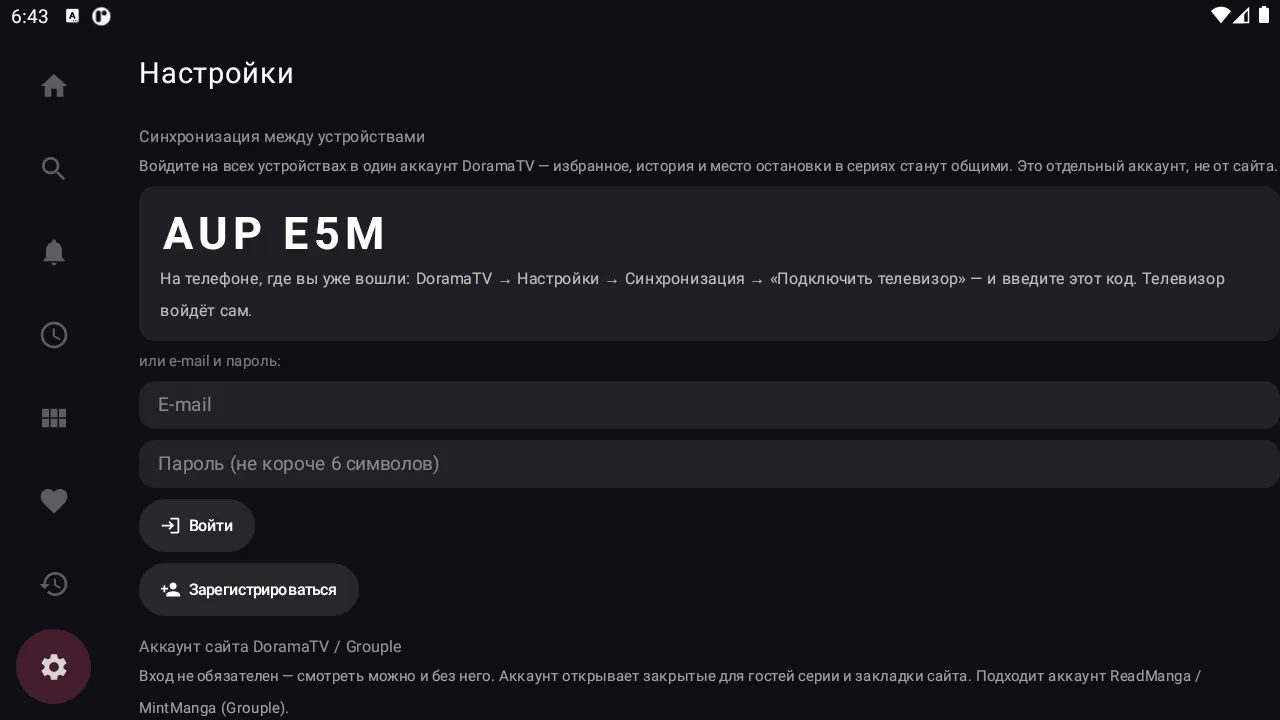
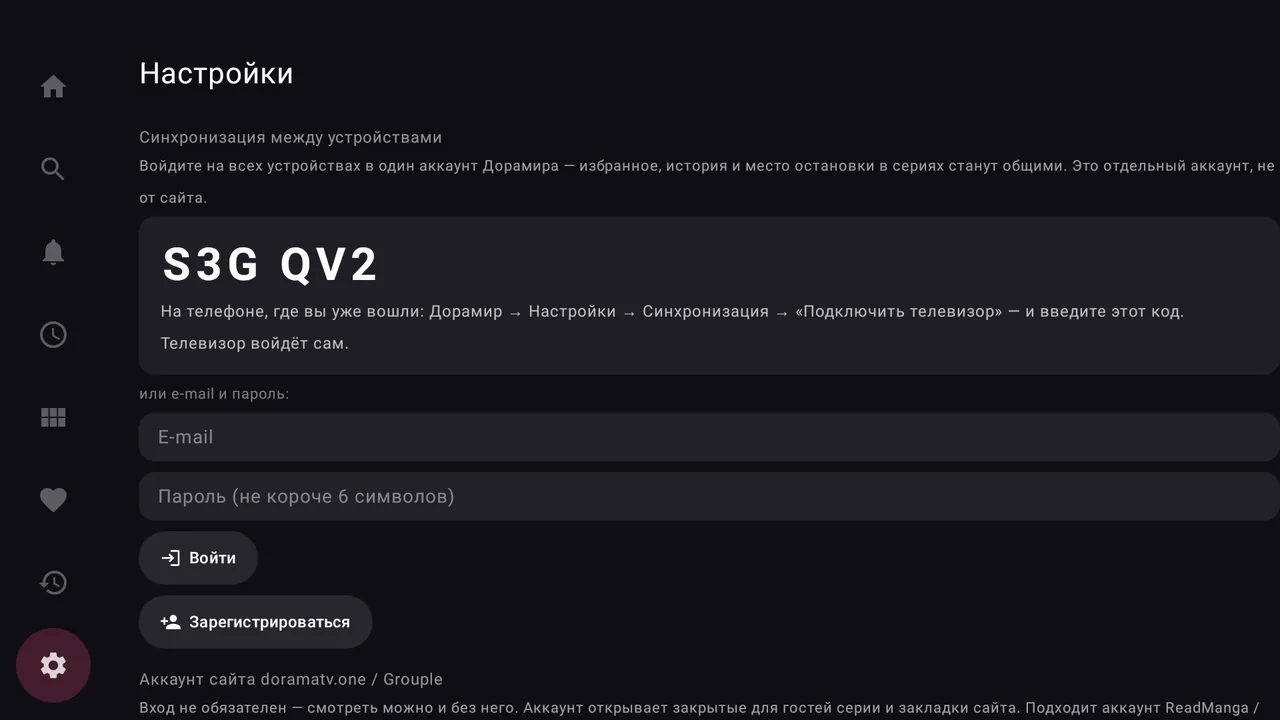
Скриншоты в рамках телефона и ТВ, свежие снимки ТВ

diff --git a/index.html b/index.html
@@ -85,13 +85,31 @@ nav a:hover { color: var(--text); }
 .card h3 { font-size: 18px; margin-bottom: 6px; }
 .card p { color: var(--muted); margin: 0; font-size: 15px; }
 
-/* Скриншоты */
-.gallery { display: grid; grid-template-columns: repeat(3, 1fr); gap: 16px; max-width: 760px; }
-.gallery img { border-radius: 22px; border: 1px solid var(--border); }
-.tv { display: grid; grid-template-columns: 1.4fr 1fr; gap: 16px; margin-top: 16px; }
-.tv figure { margin: 0; }
-.tv img { border-radius: 14px; border: 1px solid var(--border); }
-figcaption { color: var(--faint); font-size: 14px; margin-top: 8px; }
+/* Скриншоты: телефоны в корпусах, ТВ в рамке с подставкой */
+.showcase { background: radial-gradient(ellipse 60% 45% at 50% 32%, rgba(255, 79, 123, 0.13), transparent 70%); }
+.center { text-align: center; }
+.center .lead { margin-left: auto; margin-right: auto; }
+.phones { display: flex; justify-content: center; align-items: flex-start; gap: 36px; padding-top: 24px; }
+.device { margin: 0; width: 250px; flex: none; text-align: center; }
+.device img {
+  border-radius: 32px; border: 7px solid #2A2433; background: #000;
+  box-shadow: 0 34px 60px -28px rgba(255, 79, 123, 0.45);
+}
+.device.raised { transform: translateY(-24px); }
+figcaption { color: var(--muted); font-size: 15px; margin-top: 14px; text-align: center; }
+.sub { font-size: 24px; text-align: center; margin: 64px 0 22px; }
+.tvset { margin: 0 auto; max-width: 920px; }
+.tvset .screen {
+  border: 10px solid #1D1924; border-radius: 16px; background: #000; overflow: hidden;
+  box-shadow: 0 30px 70px -30px rgba(255, 79, 123, 0.35);
+}
+.tvset::after {
+  content: ""; display: block; width: 26%; height: 12px; margin: 0 auto;
+  background: #1D1924; border-radius: 0 0 14px 14px;
+}
+.tvset figcaption { margin-top: 10px; }
+.tv-pair { display: grid; grid-template-columns: 1fr 1fr; gap: 28px; max-width: 920px; margin: 32px auto 0; }
+.tv-pair .tvset .screen { border-width: 7px; border-radius: 12px; }
 
 /* Установка */
 .install { display: grid; grid-template-columns: 1fr 1fr; gap: 16px; }
@@ -121,9 +139,18 @@ footer .wrap { display: flex; flex-wrap: wrap; justify-content: space-between; g
   .hero-shots { height: 440px; max-width: 420px; width: 100%; margin: 0 auto; }
   .phone { width: 200px; border-radius: 24px; }
   .phone.one { right: auto; left: 0; }
-  .features, .gallery, .install, .tv { grid-template-columns: 1fr; }
-  .gallery { grid-template-columns: repeat(3, minmax(0, 1fr)); gap: 8px; }
-  .gallery img { border-radius: 12px; }
+  .features, .install, .tv-pair { grid-template-columns: 1fr; }
+  /* Телефоны листаются пальцем вбок, не растягивая страницу. */
+  .phones {
+    justify-content: flex-start; gap: 18px; overflow-x: auto; scroll-snap-type: x mandatory;
+    margin: 0 -20px; padding: 8px 20px 12px; scrollbar-width: none;
+  }
+  .phones::-webkit-scrollbar { display: none; }
+  .device { width: 64%; max-width: 250px; scroll-snap-align: center; }
+  .device.raised { transform: none; }
+  .device img { border-radius: 24px; border-width: 5px; }
+  .tvset .screen, .tv-pair .tvset .screen { border-width: 5px; border-radius: 10px; }
+  .sub { margin-top: 44px; }
   nav { display: none; }
 }
 @media (max-width: 420px) {
@@ -217,23 +244,39 @@ footer .wrap { display: flex; flex-wrap: wrap; justify-content: space-between; g
     </div>
   </section>
 
-  <section>
+  <section class="showcase">
     <div class="wrap">
-      <h2>Как это выглядит</h2>
-      <p class="lead">На телефоне — привычный интерфейс с нижним меню, на телевизоре — крупные карточки и управление пультом.</p>
-      <div class="gallery">
-        <img src="assets/phone_home.webp" alt="Главная на телефоне: новые серии и популярное" loading="lazy" width="540" height="1080">
-        <img src="assets/phone_details.webp" alt="Страница дорамы на телефоне" loading="lazy" width="540" height="1080">
-        <img src="assets/phone_voice.webp" alt="Выбор озвучки и серии" loading="lazy" width="540" height="1080">
+      <div class="center">
+        <h2>Как это выглядит</h2>
+        <p class="lead">На телефоне — привычный интерфейс с нижним меню, на телевизоре — крупные карточки и управление пультом.</p>
       </div>
-      <div class="tv">
-        <figure>
-          <img src="assets/tv_home.webp" alt="Главная на Android TV" loading="lazy" width="1280" height="720">
-          <figcaption>Главная на Android TV</figcaption>
+      <div class="phones">
+        <figure class="device">
+          <img src="assets/phone_home.webp" alt="Главная на телефоне: новые серии и популярное" loading="lazy" width="540" height="1080">
+          <figcaption>Новые серии и подборки</figcaption>
         </figure>
-        <figure>
-          <img src="assets/tv_code.webp" alt="Вход на телевизоре по коду с телефона" loading="lazy" width="1280" height="720">
-          <figcaption>Вход на телевизоре по коду — без набора пароля пультом</figcaption>
+        <figure class="device raised">
+          <img src="assets/phone_details.webp" alt="Страница дорамы на телефоне" loading="lazy" width="540" height="1080">
+          <figcaption>Страница дорамы</figcaption>
+        </figure>
+        <figure class="device">
+          <img src="assets/phone_voice.webp" alt="Выбор озвучки и серии" loading="lazy" width="540" height="1080">
+          <figcaption>Озвучка и серии</figcaption>
+        </figure>
+      </div>
+
+      <h3 class="sub">На телевизоре</h3>
+      <figure class="tvset">
+        <div class="screen"><img src="assets/tv_home.webp" alt="Главная на Android TV" loading="lazy" width="1280" height="720"></div>
+      </figure>
+      <div class="tv-pair">
+        <figure class="tvset">
+          <div class="screen"><img src="assets/tv_details.webp" alt="Страница дорамы на Android TV" loading="lazy" width="1280" height="720"></div>
+          <figcaption>Страница дорамы — всё пультом</figcaption>
+        </figure>
+        <figure class="tvset">
+          <div class="screen"><img src="assets/tv_code.webp" alt="Вход на телевизоре по коду с телефона" loading="lazy" width="1280" height="720"></div>
+          <figcaption>Вход по коду с телефона — без набора пароля</figcaption>
         </figure>
       </div>
     </div>
